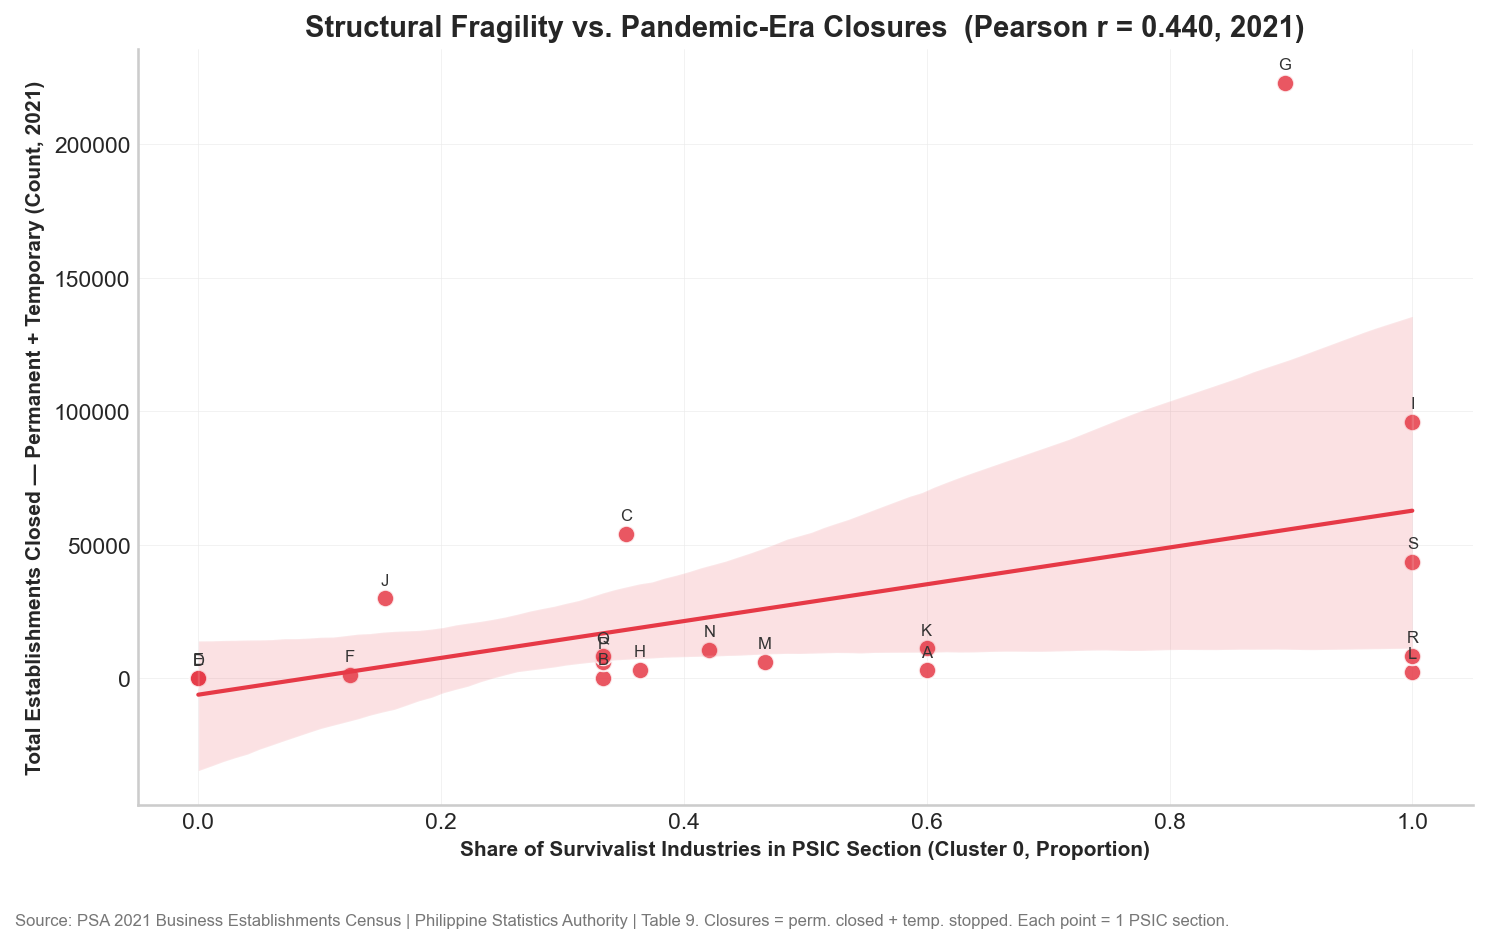
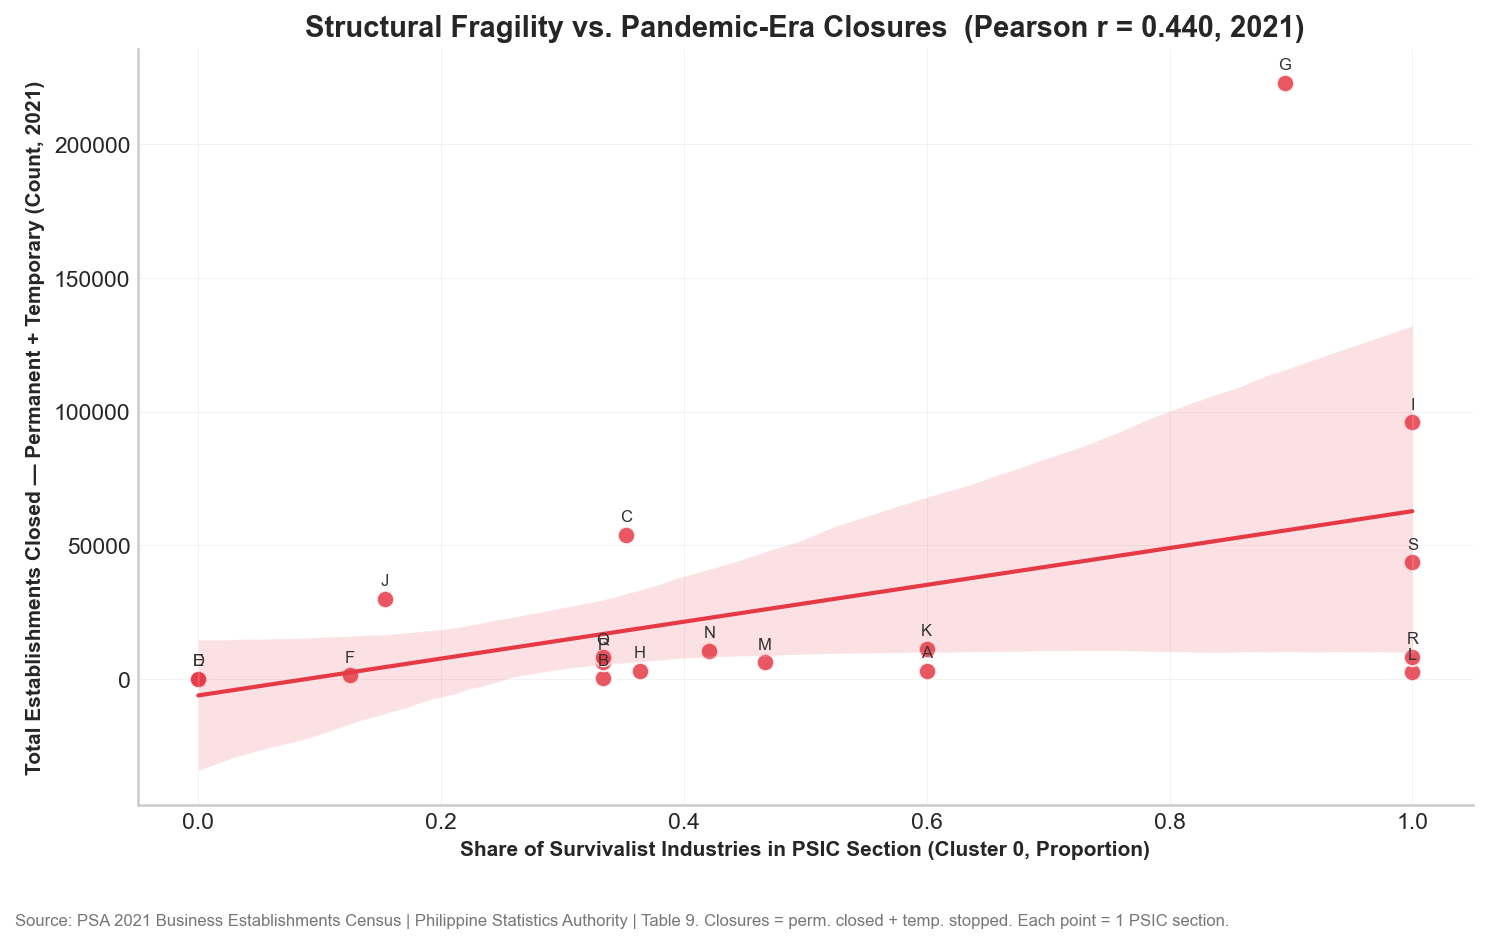
revise paper based on peer review

diff --git a/An_Econometric_Taxonomy_for_Policy__Quantifying_Structural_Vulnerability_via_K_Means_Clustering_of_Philippine_Industries/main.tex b/An_Econometric_Taxonomy_for_Policy__Quantifying_Structural_Vulnerability_via_K_Means_Clustering_of_Philippine_Industries/main.tex
@@ -258,12 +258,12 @@ This study rejects this assumption. We argue that the distribution of firm sizes
 \subsection{The Missing Middle as a Source of Systemic Risk}
 This structural gap is more than a productivity issue, but a source of systemic vulnerability. Evidence from behavioral and empirical finance demonstrates that firm size strongly determines access to credit and, in turn, a firm's ability to survive economic shocks.
 
-Large firms typically secure committed liquidity through long-term, unsecured credit lines. In contrast, SMEs rely on discretionary financing, characterized by short-term maturities, high collateral requirements, and demandable clauses that give banks the right to recall loans at any time. These financing differences produce starkly different crisis responses. During the COVID-19 pandemic, large firms drew heavily on committed credit lines to secure liquidity, while SMEs saw their discretionary credit effectively frozen as banks tightened lending.
+Large firms typically secure committed liquidity through long-term, unsecured credit lines. In contrast, SMEs rely on discretionary financing, characterized by short-term maturities, high collateral requirements, and demandable clauses that give banks the right to recall loans at any time. These financing differences produce starkly different crisis responses. During the COVID-19 pandemic, large firms drew heavily on committed credit lines to secure liquidity, while SMEs saw their discretionary credit effectively frozen as banks tightened lending \citep{chodorow2022}.
 
 Because private financial data for unlisted MSMEs is generally unavailable, the literature establishes that firm size is the single strongest proxy for financial constraints \citep{beck2008}. \citet{hsieh2009} demonstrated that misallocation of resources across firms of different sizes accounts for substantial productivity losses in developing economies. \citet{laporta2014} further established that informality, the condition of most micro-enterprises, is associated with fundamentally different production functions rather than merely smaller-scale versions of formal firms. Therefore, identifying an industry's size structure is effectively mapping its aggregate financial vulnerability. When policymakers miss these structural differences, support measures fail to reach the vulnerable ``middle,'' causing employment-rich sectors to collapse and deepening the economic shock.
 
 \subsection{Flawed Taxonomies}
-This policy blindness stems from a critical analytical failure. The traditional tool for economic analysis, the high-level (1-digit) Philippine Standard Industrial Classification (PSIC), is too coarse to guide targeted policy. Scholars note that such high-level classifications are ``ambiguous and simplistic'' and inadequate for modern decision-making.
+This policy blindness stems from a critical analytical failure. The traditional tool for economic analysis, the high-level (1-digit) Philippine Standard Industrial Classification (PSIC), is too coarse to guide targeted policy. Scholars note that such high-level classifications are ambiguous and simplistic, and inadequate for modern decision-making.
 
 High-level classifications group industries solely by output (e.g., ``Manufacturing''), masking significant differences at finer levels of detail. They treat an industry dominated by thousands of labor-intensive micro-bakeries as identical to one dominated by a few capital-intensive car manufacturers. This obscuration of the ``missing middle'' leads to uniform policies that are structurally mismatched to the industries they intend to help.
 
@@ -293,12 +293,12 @@ Under RA 9501, a small software firm (characterized by low assets but high resil
 \section{Research Methodology}
 
 \subsection{Research Design}
-This study employed a quantitative, explanatory research design grounded in the Structure-Conduct-Performance (SCP) paradigm. The core hypothesis is that an industry's Structure (its firm-size distribution) is a primary determinant of its Performance (economic resilience and vulnerability to shock).
+This study employed a quantitative, explanatory research design grounded in the Structure-Conduct-Performance (SCP) paradigm. The core hypothesis is that an industry's Structure (its firm-size distribution) is a primary determinant of its Performance (economic resilience and vulnerability to shock). This study operationalizes only the Structure--Performance link of the SCP paradigm, treating firm closure rates as the performance outcome and firm-size distribution as the structural input. The Conduct dimension is outside the scope of the present analysis.
 
 The methodology proceeds in two phases:
 
 \begin{description}
-    \item[\textbf{Phase 1: Taxonomic Construction.}] An unsupervised machine learning model (K-Means) is utilized to segment the Philippine economy. It created a new taxonomy by clustering industries based on their ``structural DNA'' (firm-size distribution) rather than their stated output (PSIC codes).
+    \item[\textbf{Phase 1: Taxonomic Construction.}] An unsupervised machine learning model (K-Means) is utilized to segment the Philippine economy. It created a new taxonomy by clustering industries based on their firm-size distribution rather than their stated output (PSIC codes).
     
     \item[\textbf{Phase 2: Ex-post Validation and Application.}] The resulting taxonomy was employed as an analytical lens to test the central hypothesis. Cluster labels were mapped to national resilience data (firm closures) and regional data to challenge the ``one-size-fits-all'' policy framework. This directly addresses the limitations of official classifications (like PSIC) which, as noted by \citet{wachs2022}, ``mask differences'' and are a ``limiting condition'' for effective analysis.
 \end{description}
@@ -404,7 +404,7 @@ This entropy score provided the objective, as the mathematical basis for profili
 \subsubsection{Resilience and Vulnerability Analysis}
 The new cluster labels were aggregated to the 1-digit PSIC Section level and merged with data from PSA Table 9 (Closures by Industry Section). This tested the central hypothesis that firm failure rates correlate with our structural archetypes. This directly "operationalizes" the concept from \citet{shutters2024} that economic structure, not just sector, determines ``vulnerability to shock.''
 
-Since the cluster taxonomy is constructed at the 3-digit PSIC level while closure data is available only at the 1-digit Section level, a weighted aggregation method was employed. 1-digit Sections were characterized by the dominant structural cluster (by employment share) contained within them to avoid the ecological fallacy of attributing group-level characteristics to specific industries.
+Since the cluster taxonomy is constructed at the 3-digit PSIC level while closure data is available only at the 1-digit Section level, a weighted aggregation method was employed. 1-digit Sections were characterized by the weighted proportion of Survivalist industries contained within them, using total establishment counts as weights, to avoid the ecological fallacy of attributing group-level characteristics to specific industries.
 
 \subsubsection{Regional Economic Analysis}
 The cluster labels were then mapped using GEOPANDAS and a map of the Philippines in a regional json file from Faeldon's Github repository, and the PSA Table 2 (Industries by Region) to create a geographic distribution of the Philippines' industrial archetypes. This analysis quantified the structural-economic differences between regions (e.g., NCR vs. BARMM) and provided evidence for designing targeted, non-uniform national MSME policies.
@@ -463,6 +463,7 @@ A Z-score analysis was conducted to identify distributional anomalies within the
 \begin{table}[ht]
   \caption{Identified Structural Outliers ($Z > 3$)}
   \label{tab:outliers}
+  \small
   \begin{tabularx}{\linewidth}{l X r c l}
     \toprule
     \textbf{PSIC} & \textbf{Industry Description} & \textbf{Avg. Size} & \textbf{Micro \%} & \textbf{Class} \\
@@ -544,6 +545,8 @@ The Survivalist row serves as the baseline of economic fragility with an average
 Validation via Shannon Entropy (Figure \ref{fig:entropy}) confirms that these clusters represent fundamentally different levels of ecosystem resilience. The "Survivalist" cluster exhibits the lowest median entropy ($H \approx 0.41$), quantifying it as a "structural monoculture." These industries lack the diverse mix of medium and large players necessary to absorb systemic shock. In contrast, the Transition cluster displays the highest median entropy ($H \approx 1.176$), followed closely by the Oligopoly cluster ($H \approx 1.131$). The Middle cluster ($H \approx 0.886$) represents an intermediate structural complexity—distinct from the Survivalist monoculture but not yet exhibiting the diverse multi-scale ecosystems of the upper archetypes. This gradient confirms that the taxonomy captures a monotonic increase in structural diversity from Survivalist to Transition.
 The chart exposes a "Complexity Gap" separating the Survivalist archetype (Cluster 0) from the rest of the economy. The Survivalist box is situated significantly lower than the others, with a median entropy of approximately 0.4. This low score statistically confirms that the informal sector is defined by homogeneity, and it is composed almost entirely of identical, non-differentiated micro-enterprises. There is no complex "food chain" of suppliers and distributors here, just thousands of solitary actors doing the same thing. This lack of structural diversity makes the sector rigid and incapable of innovation, as economic evolution requires the friction and interaction of different types of firms.
 
+The Middle archetype represents industries that have partially escaped the Survivalist trap, exhibiting higher SME density and intermediate scale. Together with the Transition archetype, these clusters constitute the industries closest to the structural ideal implied by the ``Missing Middle'' framework, distinguishing them from both the Survivalist monoculture and the capital-isolated Oligopoly. The label ``Missing Middle'' therefore describes the structural gap visible in Figure \ref{fig:structural_dualism}, not a single cluster: both the Middle and Transition archetypes represent partial realizations of the dense, scalable SME layer that this gap currently lacks.
+
 
 \begin{figure}[ht]
   \centering
@@ -596,7 +599,7 @@ Plotting the "Share of Survivalist Industries" (X-axis) against the "Total Estab
 
 The Structural Risk Score for each 1-digit PSIC Section is defined as the weighted proportion of Survivalist (Cluster 0) industries within that section, where weights are the total establishment counts of each 3-digit industry. Formally, for section $s$ containing 3-digit industries $j \in J_s$, the risk score is computed as $R_s = \sum_{j \in J_s} w_j \cdot \mathbb{1}[\text{cluster}_j = 0] / \sum_{j \in J_s} w_j$, where $w_j$ is the total establishments in industry $j$.
 
-As detailed in Table \ref{tab:vulnerability}, sectors with a Structural Risk Score of 1.0 (100\% composition of Survivalist industries), such as Accommodation and Food Service Activities (I), suffered the highest absolute closures relative to their asset base. Conversely, sectors like Electricity and Gas (D), dominated by ``Oligopoly'' archetypes (Risk Score = 0.00), demonstrated anti-fragility. This proves that vulnerability to systemic shock is not random but is encoded in the industry's structural DNA. Survivalist industries failed because they lacked the financial buffers, specifically committed credit lines, and operational redundancy that define the high-entropy archetypes.
+As detailed in Table \ref{tab:vulnerability}, sectors with a Structural Risk Score of 1.0 (100\% composition of Survivalist industries), such as Accommodation and Food Service Activities (I), suffered the highest absolute closures relative to their asset base. Conversely, sectors like Electricity and Gas (D), dominated by ``Oligopoly'' archetypes (Risk Score = 0.00), demonstrated anti-fragility. This proves that vulnerability to systemic shock is not random but is encoded in the industry's structural profile. Survivalist industries failed because they lacked the financial buffers, specifically committed credit lines, and operational redundancy that define the high-entropy archetypes.
 
 % TABLE 2: SECTORAL VULNERABILITY
 \begin{table}[ht]
@@ -677,7 +680,7 @@ To evaluate whether the cluster-based taxonomy outperforms the standard 1-digit 
   \centering
   \Description{Bar charts comparing R-squared and AIC values for two models. Model B (cluster-based) shows higher predictive power and lower AIC than the standard PSIC model.}
   \includegraphics[width=\linewidth]{fig_model_comparison.png}
-  \caption{Model Comparison. \texorpdfstring{$R^2$}{R-squared} and AIC for PSIC-dummy model (A) versus cluster-based predictor model (B).}
+  \caption{Model Comparison. \texorpdfstring{$R^2$}{R-squared} and AIC for PSIC-dummy model (A) versus cluster-based predictor model (B). \textit{Note: Model A achieves $R^2 = 1.0$ by construction as a saturated model ($n = k = 18$). Teal border indicates operationally preferred model.}}
   \label{fig:model_comparison}
 \end{figure}
 
@@ -723,11 +726,11 @@ First, the analysis relies on a single cross-section from 2021, a year distorted
 
 Second, the feature set consists of three variables derived from establishment and employment counts. This sparse representation excludes productivity, wages, capital intensity, export orientation, and entry/exit dynamics. Two industries with identical firm-size distributions but different tradeable/non-tradeable profiles may face fundamentally different structural constraints. Future work should incorporate PSA labor productivity data and trade statistics to enrich the structural fingerprint.
 
-Third, the resilience validation suffers from an ecological inference problem. Closure data from PSA Table 9 is available only at the 1-digit PSIC Section level, while the taxonomy is constructed at the 3-digit level. The weighted aggregation from 3-digit clusters to 1-digit sections introduces measurement error, and the reported correlation ($r = 0.44$) reflects section-level, not cluster-level, variation. Obtaining 3-digit closure data from the PSA would enable a direct test of the central hypothesis.
+Third, the resilience validation suffers from an ecological inference problem. Closure data from PSA Table 9 is available only at the 1-digit PSIC Section level, while the taxonomy is constructed at the 3-digit level. The weighted aggregation from 3-digit clusters to 1-digit sections introduces measurement error, and the reported correlation ($r = 0.44$) reflects section-level, not cluster-level, variation. A post-hoc power analysis for the bivariate OLS with $n = 18$ and $r = 0.44$ at $\alpha = 0.10$ yields power $\approx 0.58$, confirming the test is underpowered. This further supports the characterization of the result as suggestive rather than confirmatory. Obtaining 3-digit closure data from the PSA would enable a direct test of the central hypothesis.
 
 Fourth, the regional risk scores exhibit compressed variation (0.93 to 0.95), suggesting that the taxonomy has limited discriminatory power at the regional level. This compression may reflect the genuine structural homogeneity of the Philippine economy, but it also limits the practical utility of the geographic analysis for differentiating regional policy.
 
-Fifth, K-Means clustering assumes spherical, equal-variance clusters and is sensitive to outliers. While the four retained outliers (Z $>$ 3) were justified as structurally meaningful, their retention may bias the Oligopoly cluster centroid. The robustness checks in Section 4.4 address this concern directly. The K-Medoids (PAM) analysis confirms that the four archetypes are preserved under an outlier-robust algorithm, the ARI stability test demonstrates reproducibility across 50 random seeds, and the ANOVA validates that cluster means differ significantly ($p < 0.001$) on both firm size and entropy.
+Fifth, K-Means clustering assumes spherical, equal-variance clusters and is sensitive to outliers. While the four retained outliers (Z $>$ 3) were justified as structurally meaningful, their retention may bias the Oligopoly cluster centroid. The Oligopoly cluster ($n = 4$) produces a centroid that is sensitive to the inclusion or exclusion of any single industry. While the robustness checks confirm the four-archetype structure is preserved under K-Medoids, the specific centroid values for the Oligopoly archetype should be interpreted with caution. The robustness checks in Section 4.4 address this concern directly. The K-Medoids (PAM) analysis confirms that the four archetypes are preserved under an outlier-robust algorithm, the ARI stability test demonstrates reproducibility across 50 random seeds, and the ANOVA validates that cluster means differ significantly ($p < 0.001$) on both firm size and entropy.
 
 Sixth, while cluster stability across random initializations was confirmed, the sensitivity of the taxonomy to the initial feature engineering choices (e.g., the inclusion or exclusion of specific size-density ratios) was not explicitly stress-tested.
 